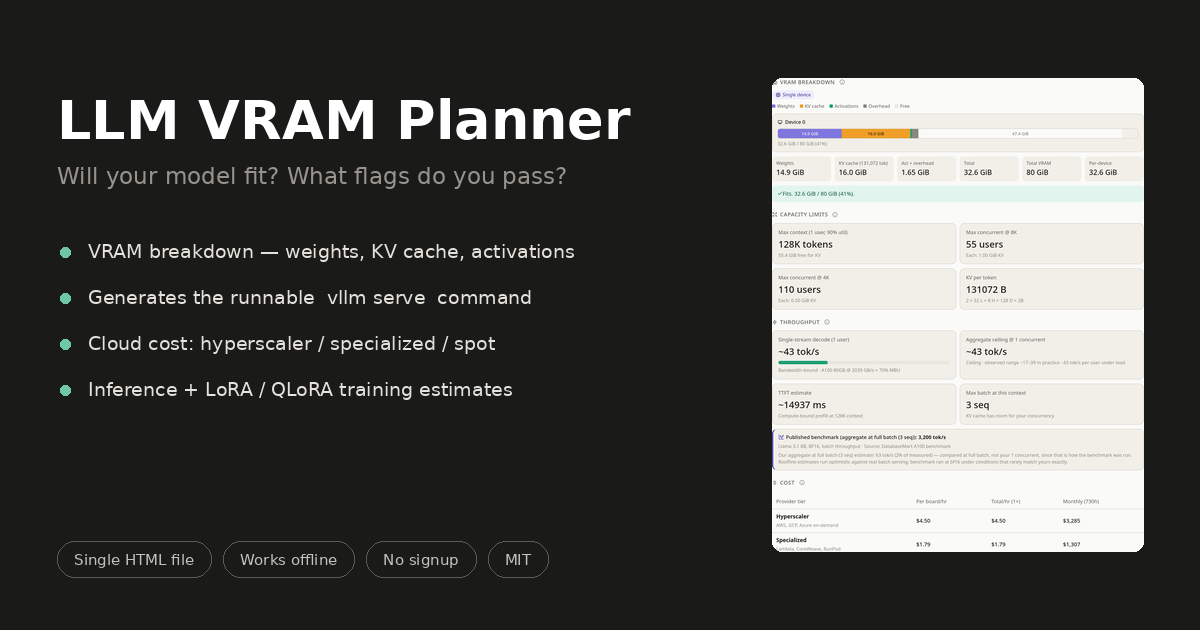
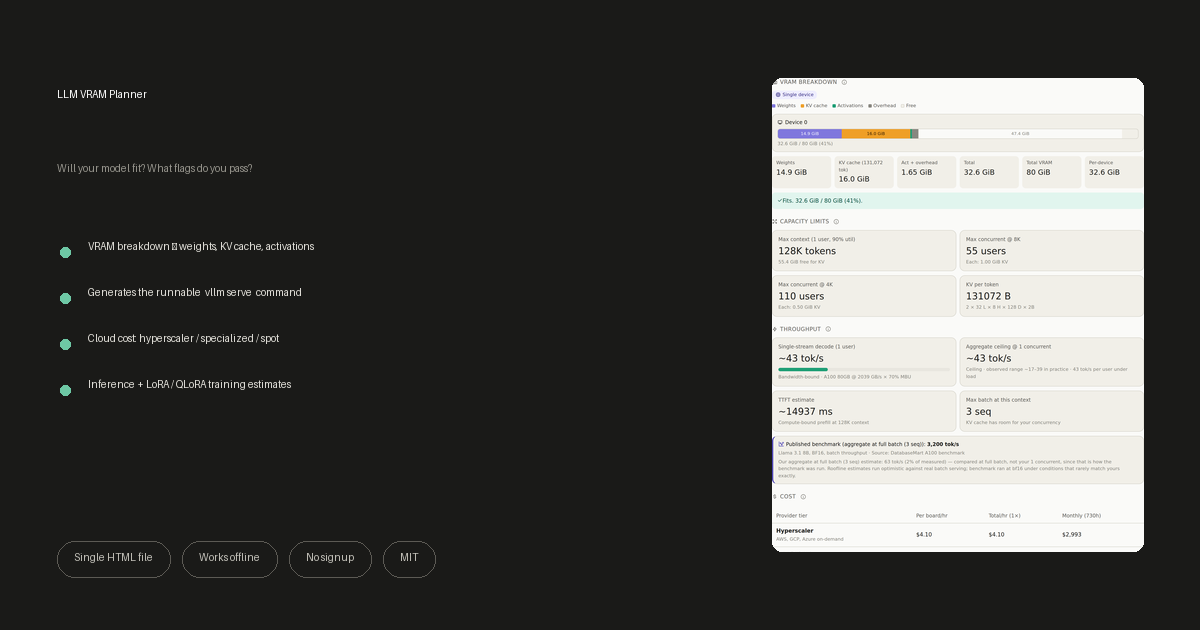
price-refresh: update catalog prices and provenance

diff --git a/index.html b/index.html
@@ -530,18 +530,18 @@ const MODEL_PRESETS = {
    ============================================================================= */
 /* GPU_TABLE:BEGIN — generated by tools/sync_data.py from data/gpus.json. Do not hand-edit; edit the JSON and re-run the script. */
 const GPU_TABLE = {
-  't4-16': { gb:16, bw:320, hyper:0.76, spec:0.35, spot:0.15, tflops:65, name:'T4 16 GB', vendor:'nvidia', devices:1, form:'pcie', caps:{ fp8: false } },
-  'l4-24': { gb:24, bw:300, hyper:0.8, spec:0.43, spot:0.22, tflops:121, name:'L4 24 GB', vendor:'nvidia', devices:1, form:'pcie', caps:{ fp8: true } },
+  't4-16': { gb:16, bw:320, hyper:0.53, spec:0.35, spot:0.15, tflops:65, name:'T4 16 GB', vendor:'nvidia', devices:1, form:'pcie', caps:{ fp8: false }, priceSource:{ hyper: { provider: 'aws', sku: 'g4dn.xlarge', region: 'US East (N. Virginia)', date: '2026-09-17' } } },
+  'l4-24': { gb:24, bw:300, hyper:0.8, spec:0.43, spot:0.22, tflops:121, name:'L4 24 GB', vendor:'nvidia', devices:1, form:'pcie', caps:{ fp8: true }, priceSource:{ hyper: { provider: 'aws', sku: 'g6.xlarge', region: 'US East (N. Virginia)', date: '2026-09-17' } } },
   'rtx4090-24': { gb:24, bw:1008, hyper:0.75, spec:0.45, spot:0.29, tflops:165, name:'RTX 4090 24 GB', vendor:'nvidia', devices:1, form:'consumer', caps:{ fp8: true } },
   'rtx5090-32': { gb:32, bw:1792, hyper:0.89, spec:0.65, spot:0.45, tflops:419, name:'RTX 5090 32 GB', vendor:'nvidia', devices:1, form:'consumer', caps:{ fp8: true } },
-  'a100-40': { gb:40, bw:1555, hyper:3.67, spec:1.29, spot:0.63, tflops:312, name:'A100 40 GB', vendor:'nvidia', devices:1, form:'sxm', caps:{ fp8: false }, default:true },
+  'a100-40': { gb:40, bw:1555, hyper:3.4, spec:1.29, spot:0.63, tflops:312, name:'A100 40 GB', vendor:'nvidia', devices:1, form:'sxm', caps:{ fp8: false }, default:true, priceSource:{ hyper: { provider: 'azure', sku: 'Standard_ND96asr_A100_v4', region: 'eastus', date: '2026-09-17' } } },
   'rtx6000ada-48': { gb:48, bw:960, hyper:1.5, spec:0.9, spot:0.6, tflops:364, name:'RTX 6000 Ada 48 GB', vendor:'nvidia', devices:1, form:'pcie', caps:{ fp8: true } },
-  'l40s-48': { gb:48, bw:864, hyper:2.8, spec:1.3, spot:0.9, tflops:362, name:'L40S 48 GB', vendor:'nvidia', devices:1, form:'pcie', caps:{ fp8: true } },
-  'a100-80': { gb:80, bw:2039, hyper:4.5, spec:1.79, spot:0.99, tflops:312, name:'A100 80 GB', vendor:'nvidia', devices:1, form:'sxm', caps:{ fp8: false } },
-  'h100-80': { gb:80, bw:3352, hyper:12.3, spec:3.99, spot:2.25, tflops:990, name:'H100 80 GB', vendor:'nvidia', devices:1, form:'sxm', caps:{ fp8: true } },
-  'rtxpro-96': { gb:96, bw:1792, hyper:5.0, spec:3.5, spot:2.0, tflops:504, name:'RTX PRO 6000 96 GB', vendor:'nvidia', devices:1, form:'pcie', caps:{ fp8: true } },
-  'h200-141': { gb:141, bw:4800, hyper:10.6, spec:3.99, spot:2.5, tflops:990, name:'H200 141 GB', vendor:'nvidia', devices:1, form:'sxm', caps:{ fp8: true } },
-  'b200-192': { gb:192, bw:8000, hyper:14.24, spec:5.5, spot:2.12, tflops:2250, name:'B200 192 GB', vendor:'nvidia', devices:1, form:'sxm', caps:{ fp8: true } },
+  'l40s-48': { gb:48, bw:864, hyper:1.86, spec:1.3, spot:0.9, tflops:362, name:'L40S 48 GB', vendor:'nvidia', devices:1, form:'pcie', caps:{ fp8: true }, priceSource:{ hyper: { provider: 'aws', sku: 'g6e.xlarge', region: 'US East (N. Virginia)', date: '2026-09-17' } } },
+  'a100-80': { gb:80, bw:2039, hyper:4.1, spec:1.79, spot:0.99, tflops:312, name:'A100 80 GB', vendor:'nvidia', devices:1, form:'sxm', caps:{ fp8: false }, priceSource:{ hyper: { provider: 'azure', sku: 'Standard_ND96amsr_A100_v4', region: 'eastus', date: '2026-09-17' } } },
+  'h100-80': { gb:80, bw:3352, hyper:12.3, spec:3.99, spot:3.02, tflops:990, name:'H100 80 GB', vendor:'nvidia', devices:1, form:'sxm', caps:{ fp8: true }, priceSource:{ hyper: { provider: 'azure', sku: 'Standard_ND96isr_H100_v5', region: 'eastus', date: '2026-09-17' }, spec: { provider: 'lambda', sku: 'NVIDIA H100 SXM (80 GB, 208 vCPU tier)', region: 'global', date: '2026-09-17' }, spot: { provider: 'vast', sku: 'H100 SXM (median of 6 verified offers)', region: 'global', date: '2026-09-17' } } },
+  'rtxpro-96': { gb:96, bw:1792, hyper:5.0, spec:2.5, spot:2.0, tflops:504, name:'RTX PRO 6000 96 GB', vendor:'nvidia', devices:1, form:'pcie', caps:{ fp8: true }, priceSource:{ spec: { provider: 'coreweave', sku: 'NVIDIA RTX PRO 6000 Blackwell Server Edition (High Memory)', region: 'global', date: '2026-09-17' } } },
+  'h200-141': { gb:141, bw:4800, hyper:7.91, spec:3.99, spot:2.5, tflops:990, name:'H200 141 GB', vendor:'nvidia', devices:1, form:'sxm', caps:{ fp8: true }, priceSource:{ hyper: { provider: 'aws', sku: 'p5en.48xlarge', region: 'US East (N. Virginia)', date: '2026-09-17' } } },
+  'b200-192': { gb:192, bw:8000, hyper:14.24, spec:6.69, spot:2.12, tflops:2250, name:'B200 192 GB', vendor:'nvidia', devices:1, form:'sxm', caps:{ fp8: true }, priceSource:{ hyper: { provider: 'aws', sku: 'p6-b200.48xlarge', region: 'US East (N. Virginia)', date: '2026-09-17' }, spec: { provider: 'lambda', sku: 'NVIDIA B200 SXM6 (180 GB, 208 vCPU tier)', region: 'global', date: '2026-09-17' } } },
 };
 /* GPU_TABLE:END */
 

diff --git a/generate_report.py b/generate_report.py
@@ -84,18 +84,18 @@ GIB = 1024 ** 3
 
 # GPU_TABLE:BEGIN — generated by tools/sync_data.py from data/gpus.json. Do not hand-edit; edit the JSON and re-run the script.
 GPUS = {
-    "t4-16": {"gb":16,"bw":320,"hyper":0.76,"spec":0.35,"spot":0.15,"tflops":65,"name":"T4 16 GB","vendor":"nvidia","devices":1,"form":"pcie","caps":{"fp8": False}},
-    "l4-24": {"gb":24,"bw":300,"hyper":0.8,"spec":0.43,"spot":0.22,"tflops":121,"name":"L4 24 GB","vendor":"nvidia","devices":1,"form":"pcie","caps":{"fp8": True}},
+    "t4-16": {"gb":16,"bw":320,"hyper":0.53,"spec":0.35,"spot":0.15,"tflops":65,"name":"T4 16 GB","vendor":"nvidia","devices":1,"form":"pcie","caps":{"fp8": False},"priceSource":{"hyper": {"provider": "aws", "sku": "g4dn.xlarge", "region": "US East (N. Virginia)", "date": "2026-09-17"}}},
+    "l4-24": {"gb":24,"bw":300,"hyper":0.8,"spec":0.43,"spot":0.22,"tflops":121,"name":"L4 24 GB","vendor":"nvidia","devices":1,"form":"pcie","caps":{"fp8": True},"priceSource":{"hyper": {"provider": "aws", "sku": "g6.xlarge", "region": "US East (N. Virginia)", "date": "2026-09-17"}}},
     "rtx4090-24": {"gb":24,"bw":1008,"hyper":0.75,"spec":0.45,"spot":0.29,"tflops":165,"name":"RTX 4090 24 GB","vendor":"nvidia","devices":1,"form":"consumer","caps":{"fp8": True}},
     "rtx5090-32": {"gb":32,"bw":1792,"hyper":0.89,"spec":0.65,"spot":0.45,"tflops":419,"name":"RTX 5090 32 GB","vendor":"nvidia","devices":1,"form":"consumer","caps":{"fp8": True}},
-    "a100-40": {"gb":40,"bw":1555,"hyper":3.67,"spec":1.29,"spot":0.63,"tflops":312,"name":"A100 40 GB","vendor":"nvidia","devices":1,"form":"sxm","caps":{"fp8": False},"default":True},
+    "a100-40": {"gb":40,"bw":1555,"hyper":3.4,"spec":1.29,"spot":0.63,"tflops":312,"name":"A100 40 GB","vendor":"nvidia","devices":1,"form":"sxm","caps":{"fp8": False},"default":True,"priceSource":{"hyper": {"provider": "azure", "sku": "Standard_ND96asr_A100_v4", "region": "eastus", "date": "2026-09-17"}}},
     "rtx6000ada-48": {"gb":48,"bw":960,"hyper":1.5,"spec":0.9,"spot":0.6,"tflops":364,"name":"RTX 6000 Ada 48 GB","vendor":"nvidia","devices":1,"form":"pcie","caps":{"fp8": True}},
-    "l40s-48": {"gb":48,"bw":864,"hyper":2.8,"spec":1.3,"spot":0.9,"tflops":362,"name":"L40S 48 GB","vendor":"nvidia","devices":1,"form":"pcie","caps":{"fp8": True}},
-    "a100-80": {"gb":80,"bw":2039,"hyper":4.5,"spec":1.79,"spot":0.99,"tflops":312,"name":"A100 80 GB","vendor":"nvidia","devices":1,"form":"sxm","caps":{"fp8": False}},
-    "h100-80": {"gb":80,"bw":3352,"hyper":12.3,"spec":3.99,"spot":2.25,"tflops":990,"name":"H100 80 GB","vendor":"nvidia","devices":1,"form":"sxm","caps":{"fp8": True}},
-    "rtxpro-96": {"gb":96,"bw":1792,"hyper":5.0,"spec":3.5,"spot":2.0,"tflops":504,"name":"RTX PRO 6000 96 GB","vendor":"nvidia","devices":1,"form":"pcie","caps":{"fp8": True}},
-    "h200-141": {"gb":141,"bw":4800,"hyper":10.6,"spec":3.99,"spot":2.5,"tflops":990,"name":"H200 141 GB","vendor":"nvidia","devices":1,"form":"sxm","caps":{"fp8": True}},
-    "b200-192": {"gb":192,"bw":8000,"hyper":14.24,"spec":5.5,"spot":2.12,"tflops":2250,"name":"B200 192 GB","vendor":"nvidia","devices":1,"form":"sxm","caps":{"fp8": True}},
+    "l40s-48": {"gb":48,"bw":864,"hyper":1.86,"spec":1.3,"spot":0.9,"tflops":362,"name":"L40S 48 GB","vendor":"nvidia","devices":1,"form":"pcie","caps":{"fp8": True},"priceSource":{"hyper": {"provider": "aws", "sku": "g6e.xlarge", "region": "US East (N. Virginia)", "date": "2026-09-17"}}},
+    "a100-80": {"gb":80,"bw":2039,"hyper":4.1,"spec":1.79,"spot":0.99,"tflops":312,"name":"A100 80 GB","vendor":"nvidia","devices":1,"form":"sxm","caps":{"fp8": False},"priceSource":{"hyper": {"provider": "azure", "sku": "Standard_ND96amsr_A100_v4", "region": "eastus", "date": "2026-09-17"}}},
+    "h100-80": {"gb":80,"bw":3352,"hyper":12.3,"spec":3.99,"spot":3.02,"tflops":990,"name":"H100 80 GB","vendor":"nvidia","devices":1,"form":"sxm","caps":{"fp8": True},"priceSource":{"hyper": {"provider": "azure", "sku": "Standard_ND96isr_H100_v5", "region": "eastus", "date": "2026-09-17"}, "spec": {"provider": "lambda", "sku": "NVIDIA H100 SXM (80 GB, 208 vCPU tier)", "region": "global", "date": "2026-09-17"}, "spot": {"provider": "vast", "sku": "H100 SXM (median of 6 verified offers)", "region": "global", "date": "2026-09-17"}}},
+    "rtxpro-96": {"gb":96,"bw":1792,"hyper":5.0,"spec":2.5,"spot":2.0,"tflops":504,"name":"RTX PRO 6000 96 GB","vendor":"nvidia","devices":1,"form":"pcie","caps":{"fp8": True},"priceSource":{"spec": {"provider": "coreweave", "sku": "NVIDIA RTX PRO 6000 Blackwell Server Edition (High Memory)", "region": "global", "date": "2026-09-17"}}},
+    "h200-141": {"gb":141,"bw":4800,"hyper":7.91,"spec":3.99,"spot":2.5,"tflops":990,"name":"H200 141 GB","vendor":"nvidia","devices":1,"form":"sxm","caps":{"fp8": True},"priceSource":{"hyper": {"provider": "aws", "sku": "p5en.48xlarge", "region": "US East (N. Virginia)", "date": "2026-09-17"}}},
+    "b200-192": {"gb":192,"bw":8000,"hyper":14.24,"spec":6.69,"spot":2.12,"tflops":2250,"name":"B200 192 GB","vendor":"nvidia","devices":1,"form":"sxm","caps":{"fp8": True},"priceSource":{"hyper": {"provider": "aws", "sku": "p6-b200.48xlarge", "region": "US East (N. Virginia)", "date": "2026-09-17"}, "spec": {"provider": "lambda", "sku": "NVIDIA B200 SXM6 (180 GB, 208 vCPU tier)", "region": "global", "date": "2026-09-17"}}},
 }
 # GPU_TABLE:END
 
